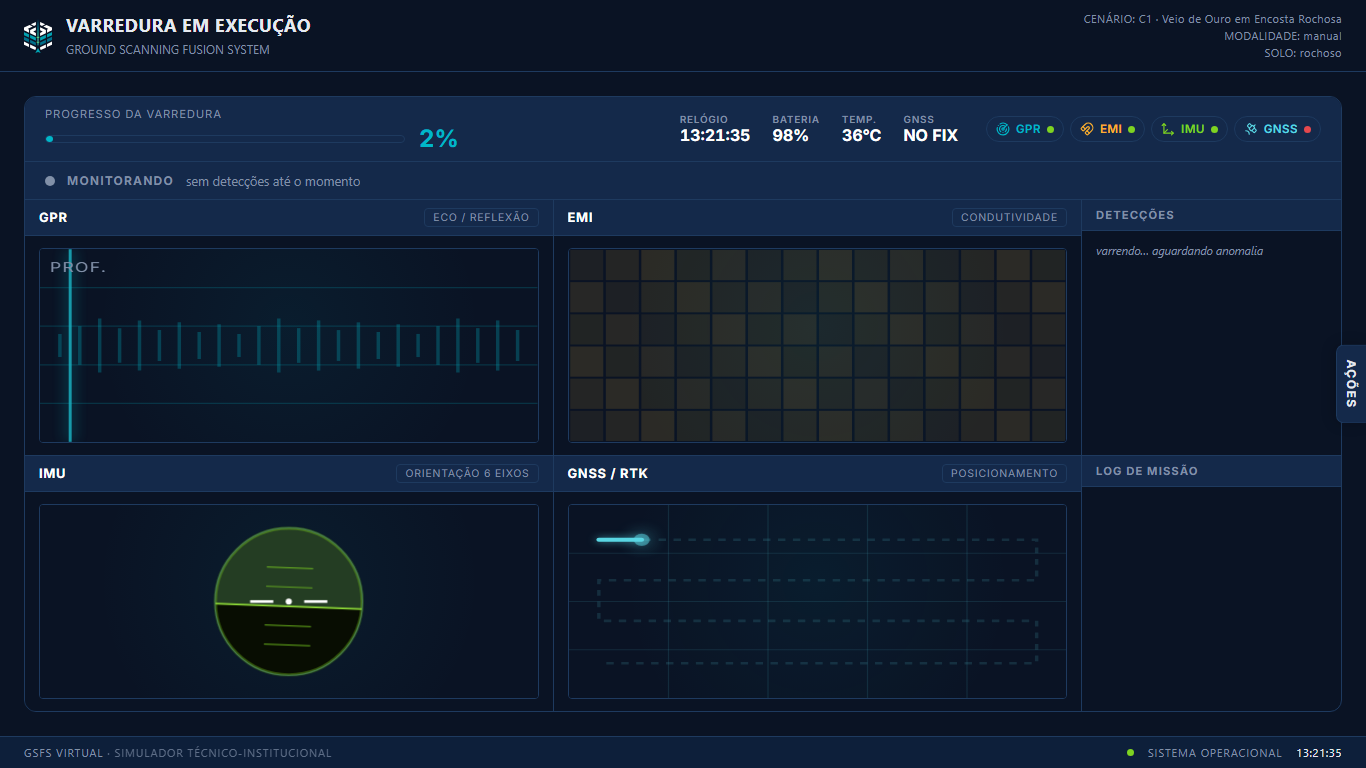
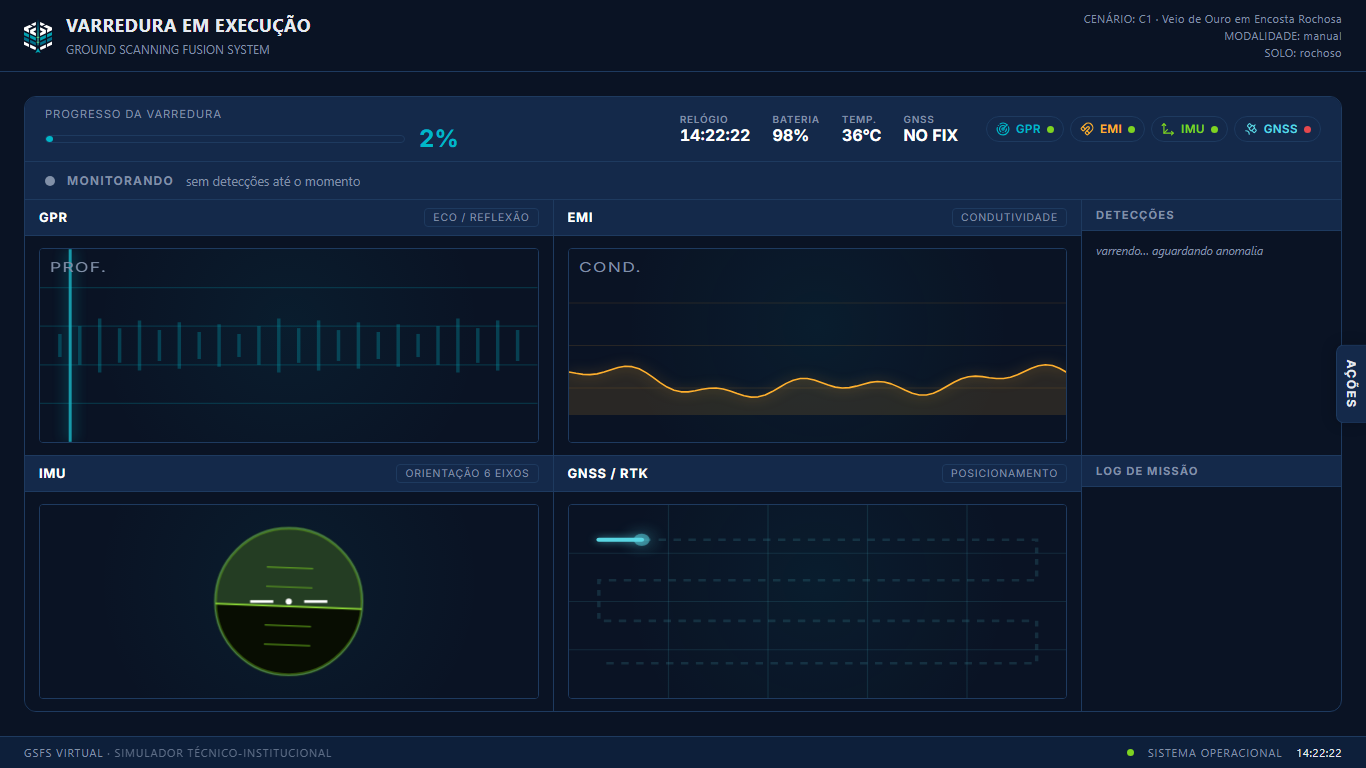
feat(e4): EMI vira curva de resposta de condutividade (strip-chart)
Substitui o heatmap por uma curva de condutividade que rola no tempo,
condizente com o comportamento real do EMI: baseline sobe com a umidade
de fundo e picos estreitos emergem sobre anomalias. Deterministica
(funcao de progressExact -> rola continua e bate no replay). Vitrine e
rotulo atualizados.

Changed region(s): [[0.3997, 0.3125, 0.7994, 0.5938], [0.9531, 0.9688, 0.9839, 1.0], [0.5227, 0.1562, 0.5534, 0.1875]]

diff --git a/app/src/ui/sim/SensorGraph.tsx b/app/src/ui/sim/SensorGraph.tsx
@@ -12,7 +12,7 @@ export interface SensorGraphProps {
 
 const VIZ_LABEL: Record<SensorKind, string> = {
   gpr: 'Radargrama GPR — eco e reflexão por profundidade',
-  emi: 'Mapa de calor EMI — matriz de condutividade',
+  emi: 'Resposta de condutividade EMI — sinal no tempo',
   imu: 'Horizonte artificial IMU — roll e pitch',
   gnss: 'Trajetória de varredura GNSS / RTK',
 }
@@ -68,43 +68,49 @@ function Gpr({ progress, detections }: { progress: number; detections: number })
 }
 
 // --------------------------------------------------------------------------
-// EMI — mapa de calor: matriz de condutividade com hotspot sobre anomalia
+// EMI — resposta de condutividade: sinal rolando no tempo (strip-chart).
+// Baseline sobe com a umidade de fundo; picos emergem sobre anomalias.
 // --------------------------------------------------------------------------
 
-const EMI_COLS = 14
-const EMI_ROWS = 6
+const EMI_N = 72
+
+// Valor de condutividade (0..1) numa coordenada de mundo `w`. Determinístico:
+// ondulação ambiente (soma de senos) + picos recorrentes quando há anomalia.
+function emiValue(w: number, baseline: number, active: boolean): number {
+  const ripple =
+    Math.sin(w * 0.20) * 0.06 +
+    Math.sin(w * 0.53 + 1.3) * 0.04 +
+    Math.sin(w * 0.11 + 0.7) * 0.05
+  let v = baseline + ripple
+  if (active) {
+    const p = Math.sin(w * 0.16)
+    v += Math.max(0, p) ** 6 * 0.5 // picos estreitos de anomalia
+  }
+  return clamp(v, 0.04, 0.96)
+}
 
 function Emi({ progress, detections }: { progress: number; detections: number }) {
-  const cw = 200 / EMI_COLS
-  const ch = 100 / EMI_ROWS
-  // centro do hotspot caminha um pouco com o progresso
-  const hotC = 8 + (clamp(progress, 0, 100) / 100) * 3
-  const hotR = 2.4
-  const cells: { x: number; y: number; o: number }[] = []
-  for (let r = 0; r < EMI_ROWS; r++) {
-    for (let c = 0; c < EMI_COLS; c++) {
-      const base = 0.08 + 0.07 * (((c * 7 + r * 3) % 5) / 5)
-      let bump = 0
-      if (detections > 0) {
-        const d2 = (c - hotC) ** 2 + (r - hotR) ** 2
-        bump = Math.exp(-d2 / 4) * 0.85
-      }
-      cells.push({ x: c * cw, y: r * ch, o: clamp(base + bump, 0, 1) })
-    }
+  const top = 14
+  const bottom = 86
+  const pr = clamp(progress, 0, 100)
+  const phase = pr * 1.4 // rola continuamente com o progresso
+  const baseline = 0.22 + (pr / 100) * 0.18 // umidade de fundo sobe ao longo da varredura
+  const active = detections > 0
+  const pts: string[] = []
+  for (let i = 0; i < EMI_N; i++) {
+    const x = (i / (EMI_N - 1)) * 200
+    const v = emiValue(i + phase, baseline, active)
+    const y = bottom - v * (bottom - top)
+    pts.push(`${x.toFixed(2)} ${y.toFixed(2)}`)
   }
+  const line = 'M ' + pts.join(' L ')
+  const area = `M 0 ${bottom} L ` + pts.join(' L ') + ` L 200 ${bottom} Z`
   return (
     <svg viewBox="0 0 200 100" preserveAspectRatio="none" className="svg-emi">
-      {cells.map((cell, i) => (
-        <rect
-          key={i}
-          className="emi-cell"
-          x={cell.x + 0.5}
-          y={cell.y + 0.5}
-          width={cw - 1}
-          height={ch - 1}
-          style={{ opacity: cell.o }}
-        />
-      ))}
+      {[28, 50, 72].map((y) => <line key={y} className="emi-grid" x1="0" y1={y} x2="200" y2={y} />)}
+      <path className="emi-fill" d={area} />
+      <path className="emi-line" d={line} vectorEffect="non-scaling-stroke" />
+      <text className="svg-axis" x="4" y="12">COND.</text>
     </svg>
   )
 }

diff --git a/app/src/ui/sim/SensorGraph.css b/app/src/ui/sim/SensorGraph.css
@@ -36,10 +36,16 @@
 @keyframes gpr-sweep-glow { 0%, 100% { opacity: 0.6; } 50% { opacity: 1; } }
 @keyframes gpr-sig-in { from { opacity: 0; } to { opacity: 1; } }
 
-/* ---------------- EMI — heatmap ---------------- */
-.svg-emi .emi-cell { fill: var(--sensor-emi); }
-.svg-emi { animation: emi-shimmer 3s ease-in-out infinite; }
-@keyframes emi-shimmer { 0%, 100% { filter: brightness(1); } 50% { filter: brightness(1.12); } }
+/* ---------------- EMI — resposta de condutividade (strip-chart) ---------------- */
+.svg-emi .emi-grid { stroke: color-mix(in srgb, var(--sensor-emi) 12%, transparent); stroke-width: 0.5; }
+.svg-emi .emi-fill { fill: color-mix(in srgb, var(--sensor-emi) 13%, transparent); stroke: none; }
+.svg-emi .emi-line {
+  fill: none;
+  stroke: var(--sensor-emi);
+  stroke-width: 1.6;
+  stroke-linejoin: round;
+  filter: drop-shadow(0 0 3px color-mix(in srgb, var(--sensor-emi) 55%, transparent));
+}
 
 /* ---------------- IMU — horizonte artificial ---------------- */
 .svg-imu .imu-bezel { fill: color-mix(in srgb, var(--color-bg-raised) 80%, black); stroke: var(--color-border); stroke-width: 1; }
@@ -82,7 +88,6 @@
 
 @media (prefers-reduced-motion: reduce) {
   .svg-gpr .gpr-sweep,
-  .svg-emi,
   .svg-imu .imu-horizon,
   .svg-gnss .gnss-head { animation: none; }
 }

diff --git a/app/src/ui/sim/SensorGraph.test.tsx b/app/src/ui/sim/SensorGraph.test.tsx
@@ -29,8 +29,8 @@ describe('SensorGraph', () => {
     expect(container.querySelectorAll('.gnss-marker').length).toBe(0)
   })
 
-  it('EMI renderiza a matriz de células', () => {
+  it('EMI renderiza a curva de resposta de condutividade', () => {
     const { container } = render(<SensorGraph kind="emi" progress={40} detections={1} />)
-    expect(container.querySelectorAll('.emi-cell').length).toBeGreaterThan(0)
+    expect(container.querySelector('.emi-line')).not.toBeNull()
   })
 })

diff --git a/app/src/pages/uikit/sections/SensorDoc.tsx b/app/src/pages/uikit/sections/SensorDoc.tsx
@@ -5,7 +5,7 @@ const KINDS: SensorKind[] = ['gpr', 'emi', 'imu', 'gnss']
 const STATES: SensorState[] = ['on', 'off', 'err']
 const RTK: RtkState[] = ['fix', 'float', 'nofix']
 const GRAPH_LABEL: Record<SensorKind, string> = {
-  gpr: 'GPR · radargrama', emi: 'EMI · heatmap', imu: 'IMU · horizonte', gnss: 'GNSS · trajetória',
+  gpr: 'GPR · radargrama', emi: 'EMI · resposta', imu: 'IMU · horizonte', gnss: 'GNSS · trajetória',
 }
 
 export default function SensorDoc() {
